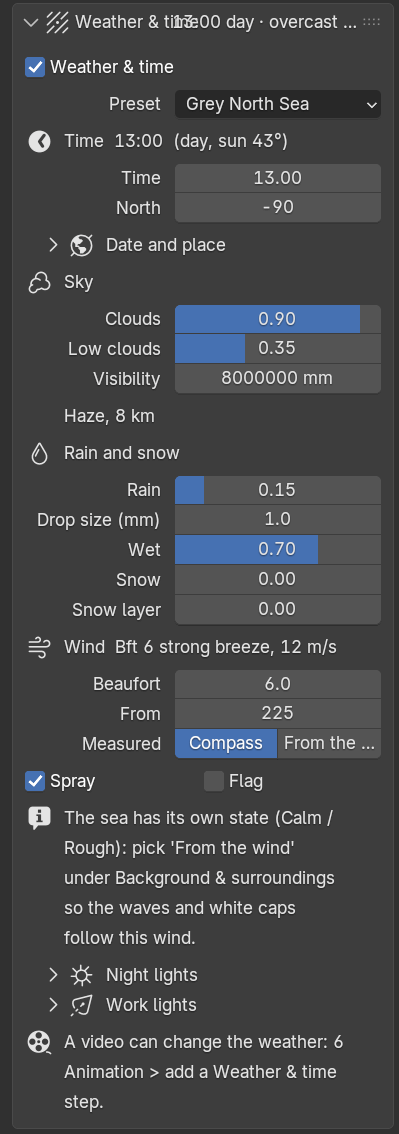
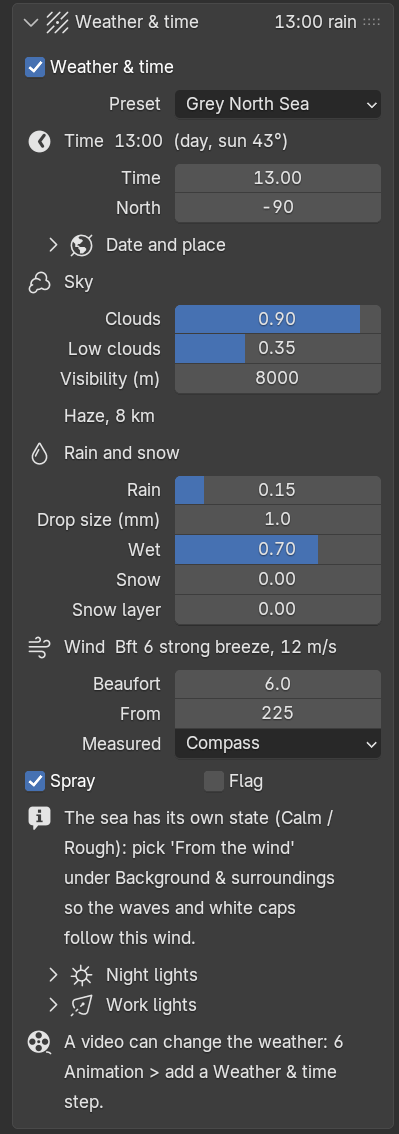
Task 0109: panel header short, visibility in metres, wind 'Measured' as a list, mast heads glow without lighting the quay (a small model at night was lit like day); guide picture, preset contact sheet [skip ci]
Claude-Session: https://claude.ai/code/session_01LGPBd5FDiL6Cm7ERE9ZNNS

diff --git a/fresing_render/blender/props.py b/fresing_render/blender/props.py
@@ -1211,7 +1211,7 @@ class FRAnimBlock(bpy.types.PropertyGroup):
     wx_low_clouds: FloatProperty(name="Low clouds", default=0.0, min=0.0, max=1.0, subtype="FACTOR",
                                  description="Low, dark clouds at the end of the step")
     wx_visibility: FloatProperty(name="Visibility", default=40000.0, min=50.0, max=100000.0, soft_max=40000.0,
-                                 unit="LENGTH", precision=0,
+                                 precision=0,
                                  description="How far you can see at the end of the step: 40 km clear, 2 km mist, "
                                              "below 1 km fog")
     wx_rain: FloatProperty(name="Rain", default=0.0, min=0.0, max=1.0, subtype="FACTOR",
@@ -2917,7 +2917,7 @@ class FRWeather(bpy.types.PropertyGroup):
         name="Low clouds", default=0.0, min=0.0, max=1.0, subtype="FACTOR", update=_weather_changed,
         description="A low, dark cloud deck: grey and heavy, the top of the sky hidden. Storms and winter days")
     visibility: FloatProperty(
-        name="Visibility", default=40000.0, min=50.0, max=100000.0, soft_max=40000.0, unit="LENGTH", precision=0,
+        name="Visibility", default=40000.0, min=50.0, max=100000.0, soft_max=40000.0, precision=0,
         update=_weather_changed,
         description="How far you can see. 40 km is clear air; 10 km haze; 2 km mist; below 1 km fog, which hides "
                     "everything further away")

diff --git a/fresing_render/blender/ui_weather.py b/fresing_render/blender/ui_weather.py
@@ -57,7 +57,7 @@ class FRESING_PT_weather(_Panel, bpy.types.Panel):
         self.layout.label(icon="OUTLINER_DATA_LIGHTPROBE")
 
     def draw_header_preset(self, context):
-        header_status(self.layout, weather.header(context.scene), limit=22)
+        header_status(self.layout, weather.short(context.scene))
 
     def draw(self, context):
         layout = self.layout
@@ -105,7 +105,7 @@ class FRESING_PT_weather(_Panel, bpy.types.Panel):
             col = split_props(layout)
             col.prop(w, "clouds", text="Clouds")
             col.prop(w, "low_clouds", text="Low clouds")
-            col.prop(w, "visibility", text="Visibility")
+            col.prop(w, "visibility", text="Visibility (m)")
             layout.label(text=core.visibility_words(w.visibility).capitalize(), icon="BLANK1")
         if where == "indoor":
             _work_lights(layout, context)
@@ -128,8 +128,7 @@ class FRESING_PT_weather(_Panel, bpy.types.Panel):
         col = split_props(layout)
         col.prop(w, "wind", text="Beaufort")
         col.prop(w, "wind_from", text="From")
-        row = col.row(align=True)
-        row.prop(w, "wind_ref", expand=True)
+        col.prop(w, "wind_ref", text="Measured")
         row = layout.row(align=True)
         row.prop(w, "spray", text="Spray")
         row.prop(w, "flag", text="Flag")

diff --git a/fresing_render/blender/weather_sky.py b/fresing_render/blender/weather_sky.py
@@ -598,7 +598,7 @@ def _floodlights(scene) -> None:
         light.spot_size = min(max(2.0 * math.atan2(radius * 1.1, dist), math.radians(25)), math.radians(100))
         light.spot_blend = 0.55
         light.shadow_soft_size = 0.25
-        drive(light, "energy", f"flood * {FLOOD_W * max(dist / 15.0, 0.3) ** 2:.2f}", scene)
+        drive(light, "energy", f"flood * {FLOOD_W * max(dist / 15.0, 0.1) ** 2:.3f}", scene)
         lob = bpy.data.objects.new(f"FR weather floodlight {i + 1}", light)
         lob[TAG] = "flood"
         lob["fr_kind"] = HELPER_KIND
@@ -615,6 +615,8 @@ def _floodlights(scene) -> None:
             mob[TAG] = "mast"
             mob["fr_kind"] = HELPER_KIND
             mob.hide_select = True
+            mob.visible_diffuse = False      # the glowing head is seen, but the spot lights the scene (a small model
+            mob.visible_volume_scatter = False   # close to the masts was lit like day by the heads)
             facing = math.atan2(aim[1] - pos[1], aim[0] - pos[0]) + math.pi / 2   # the glass (−y) to the model
             mob.matrix_world = Matrix.Translation((pos[0], pos[1], base_z)) @ Matrix.Rotation(facing, 4, "Z")
             mob.parent = group

diff --git a/fresing_render/blender/weather.py b/fresing_render/blender/weather.py
@@ -194,6 +194,18 @@ def use_preset(scene, name: str) -> None:
     changed(scene)
 
 
+def short(scene) -> str:
+    """The panel header: a few characters (the title must stay readable), e.g. '13:00 rain'."""
+    if not enabled(scene):
+        return "Off"
+    st = state(scene)
+    bits = [core.clock(st.hour)] if place(scene) == "sky" else []
+    if place(scene) != "indoor":
+        bits.append("snow" if st.snow > 0.01 else "rain" if st.rain > 0.01 else "fog" if st.visibility < 1000.0
+                    else "")
+    return " ".join(b for b in bits if b) or "On"
+
+
 def header(scene) -> str:
     if not enabled(scene):
         return "Off"

diff --git a/fresing_render/blender/ui_motion.py b/fresing_render/blender/ui_motion.py
@@ -727,7 +727,7 @@ def _draw_weather(context, box, scene, a, b) -> None:
     col.prop(b, "wx_hour", text=f"Time ({wx_core.clock(b.wx_hour)})")
     col.prop(b, "wx_clouds", text="Clouds")
     col.prop(b, "wx_low_clouds", text="Low clouds")
-    col.prop(b, "wx_visibility", text="Visibility")
+    col.prop(b, "wx_visibility", text="Visibility (m)")
     col.prop(b, "wx_rain", text="Rain")
     col.prop(b, "wx_wet", text="Wet")
     col.prop(b, "wx_snow", text="Snow")
